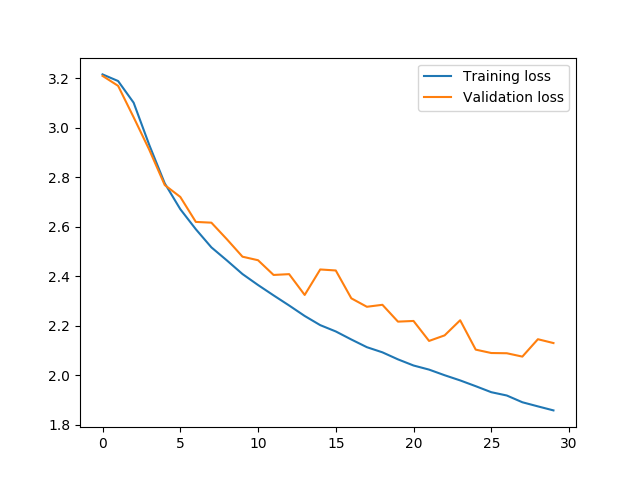
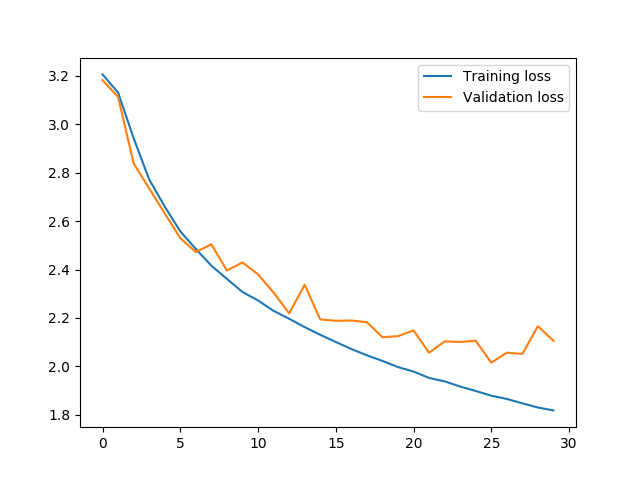
Acaba red mas profunda. Empieza red con batch normalization

diff --git a/P2/apartados1-2.py b/P2/apartados1-2.py
@@ -13,7 +13,7 @@ import keras.utils as np_utils
 
 from keras.models import Sequential
 from keras.layers import Dense, Dropout, Flatten
-from keras.layers import Conv2D, MaxPooling2D, Activation
+from keras.layers import Conv2D, MaxPooling2D, Activation, Dropout, BatchNormalization
 
 from keras.optimizers import Adam
 from keras.optimizers import SGD
@@ -163,7 +163,7 @@ print(model.summary())
 #########################################################################
 ###################### ENTRENAMIENTO DEL MODELO #########################
 #########################################################################
-
+"""
 # Entrenar el modelo
 print('Training base model')
 history = model.fit(
@@ -192,7 +192,7 @@ prediction = model.predict(
 # Obtener accuracy de test y mostrarla
 accuracy = calcularAccuracy(y_test, prediction)
 print('Test accuracy: {}'.format(accuracy))
-
+"""
 #########################################################################
 ########################## MEJORA DEL MODELO ############################
 #########################################################################
@@ -234,7 +234,7 @@ validation_iter = datagen_train.flow(
     batch_size=batch_size,
     subset='validation'
 )
-
+"""
 # Restaurar los pesos del modelo antes de continuar
 model.set_weights(weights)
 
@@ -250,7 +250,7 @@ history = model.fit_generator(
 
 # Mostrar graficas
 mostrarEvolucion(history)
-
+"""
 ###############################################################################
 # 2. Aumento de los datos
 
@@ -282,7 +282,7 @@ validation_iter_flip = datagen_train_flip.flow(
     batch_size=batch_size,
     subset='validation'
 )
-
+"""
 # Restaurar los pesos del modelo antes de continuar
 model.set_weights(weights)
 
@@ -426,8 +426,11 @@ history = model.fit_generator(
 # Mostrar graficas
 mostrarEvolucion(history)
 """
+###############################################################################
 # 3. Red más profunda
 
+epochs = 35
+"""
 # Definicion del nuevo modelo
 model_v2 = Sequential()
 model_v2.add(Conv2D(8, kernel_size=(5, 5), padding='valid', input_shape=input_shape))
@@ -461,7 +464,104 @@ weights_v2 = model_v2.get_weights()
 
 print(model_v2.summary())
 
+
 # Entrenar el modelo
+print('Training first "enhanced" model with no Dropout')
+history = model_v2.fit_generator(
+    train_iter,
+    steps_per_epoch=len(x_train)*0.9/batch_size,
+    epochs=epochs,
+    validation_data=validation_iter,
+    validation_steps=len(x_train)*0.1/batch_size
+)
+
+# Mostrar graficas
+mostrarEvolucion(history)
+
+# Definicion del nuevo modelo
+model_v3 = Sequential()
+model_v3.add(Conv2D(16, kernel_size=(3, 3), padding='valid', input_shape=input_shape))
+model_v3.add(Activation('relu'))
+model_v3.add(Conv2D(32, kernel_size=(3, 3), padding='valid'))
+model_v3.add(Activation('relu'))
+model_v3.add(MaxPooling2D(pool_size=(2, 2)))
+
+model_v3.add(Conv2D(64, kernel_size=(3, 3), padding='valid'))
+model_v3.add(Activation('relu'))
+model_v3.add(Conv2D(64, kernel_size=(3, 3), padding='valid'))
+model_v3.add(Activation('relu'))
+model_v3.add(MaxPooling2D(pool_size=(2, 2)))
+
+model_v3.add(Flatten())
+model_v3.add(Dense(units=128))
+model_v3.add(Activation('relu'))
+model_v3.add(Dense(units=50))
+model_v3.add(Activation('relu'))
+model_v3.add(Dense(units=25))
+model_v3.add(Activation('softmax'))
+
+# Compilar el modelo
+model_v3.compile(
+    loss=keras.losses.categorical_crossentropy,
+    optimizer=optimizer,
+    metrics=['accuracy']
+)
+
+weights_v3 = model_v3.get_weights()
+
+print(model_v3.summary())
+
+# Entrenar el modelo
+print('Training second "enhanced" model with no Dropout')
+history = model_v3.fit_generator(
+    train_iter,
+    steps_per_epoch=len(x_train)*0.9/batch_size,
+    epochs=epochs,
+    validation_data=validation_iter,
+    validation_steps=len(x_train)*0.1/batch_size
+)
+
+# Mostrar graficas
+mostrarEvolucion(history)
+"""
+# Definicion del nuevo modelo
+model_v2 = Sequential()
+model_v2.add(Conv2D(8, kernel_size=(5, 5), padding='valid', input_shape=input_shape))
+model_v2.add(Activation('relu'))
+model_v2.add(Conv2D(16, kernel_size=(5, 5), padding='valid'))
+model_v2.add(Activation('relu'))
+model_v2.add(MaxPooling2D(pool_size=(2, 2)))
+model_v2.add(Dropout(0.2))
+
+model_v2.add(Conv2D(32, kernel_size=(3, 3), padding='valid'))
+model_v2.add(Activation('relu'))
+model_v2.add(Conv2D(64, kernel_size=(3, 3), padding='valid'))
+model_v2.add(Activation('relu'))
+model_v2.add(MaxPooling2D(pool_size=(2, 2)))
+model_v2.add(Dropout(0.5))
+
+model_v2.add(Flatten())
+model_v2.add(Dense(units=128))
+model_v2.add(Activation('relu'))
+model_v2.add(Dense(units=50))
+model_v2.add(Activation('relu'))
+model_v2.add(Dense(units=25))
+model_v2.add(Activation('softmax'))
+
+# Compilar el modelo
+model_v2.compile(
+    loss=keras.losses.categorical_crossentropy,
+    optimizer=optimizer,
+    metrics=['accuracy']
+)
+
+weights_v2 = model_v2.get_weights()
+
+print(model_v2.summary())
+
+"""
+# Entrenar el modelo
+print('Training first "enhanced" model with Dropout')
 history = model_v2.fit_generator(
     train_iter,
     steps_per_epoch=len(x_train)*0.9/batch_size,
@@ -473,6 +573,179 @@ history = model_v2.fit_generator(
 # Mostrar graficas
 mostrarEvolucion(history)
 """
+# Definicion del nuevo modelo
+model_v3 = Sequential()
+model_v3.add(Conv2D(16, kernel_size=(3, 3), padding='valid', input_shape=input_shape))
+model_v3.add(Activation('relu'))
+model_v3.add(Conv2D(32, kernel_size=(3, 3), padding='valid'))
+model_v3.add(Activation('relu'))
+model_v3.add(MaxPooling2D(pool_size=(2, 2)))
+model_v3.add(Dropout(0.2))
+
+model_v3.add(Conv2D(64, kernel_size=(3, 3), padding='valid'))
+model_v3.add(Activation('relu'))
+model_v3.add(Conv2D(64, kernel_size=(3, 3), padding='valid'))
+model_v3.add(Activation('relu'))
+model_v3.add(MaxPooling2D(pool_size=(2, 2)))
+model_v3.add(Dropout(0.5))
+
+model_v3.add(Flatten())
+model_v3.add(Dense(units=128))
+model_v3.add(Activation('relu'))
+model_v3.add(Dense(units=50))
+model_v3.add(Activation('relu'))
+model_v3.add(Dense(units=25))
+model_v3.add(Activation('softmax'))
+
+# Compilar el modelo
+model_v3.compile(
+    loss=keras.losses.categorical_crossentropy,
+    optimizer=optimizer,
+    metrics=['accuracy']
+)
+
+weights_v3 = model_v3.get_weights()
+
+print(model_v3.summary())
+"""
+# Entrenar el modelo
+print('Training second "enhanced" model with Dropout')
+history = model_v3.fit_generator(
+    train_iter,
+    steps_per_epoch=len(x_train)*0.9/batch_size,
+    epochs=epochs,
+    validation_data=validation_iter,
+    validation_steps=len(x_train)*0.1/batch_size
+)
+
+# Mostrar graficas
+mostrarEvolucion(history)
+"""
+# Establecer epocas
+epochs = 50
+"""
+# Restaurar pesos
+model_v2.set_weights(weights_v2)
+
+# Entrenar el modelo
+print('Training first "enhanced" model with Dropout')
+history = model_v2.fit_generator(
+    train_iter,
+    steps_per_epoch=len(x_train)*0.9/batch_size,
+    epochs=epochs,
+    validation_data=validation_iter,
+    validation_steps=len(x_train)*0.1/batch_size
+)
+
+# Mostrar graficas
+mostrarEvolucion(history)
+
+# Restaurar pesos
+model_v3.set_weights(weights_v3)
+
+# Entrenar el modelo
+print('Training first "enhanced" model with Dropout')
+history = model_v3.fit_generator(
+    train_iter,
+    steps_per_epoch=len(x_train)*0.9/batch_size,
+    epochs=epochs,
+    validation_data=validation_iter,
+    validation_steps=len(x_train)*0.1/batch_size
+)
+
+# Mostrar graficas
+mostrarEvolucion(history)
+
+
+# Restaurar pesos
+model_v2.set_weights(weights_v2)
+
+# Entrenar el modelo
+print('Training first "enhanced" model with Dropout')
+history = model_v2.fit_generator(
+    train_iter_flip,
+    steps_per_epoch=len(x_train)*0.9/batch_size,
+    epochs=epochs,
+    validation_data=validation_iter_flip,
+    validation_steps=len(x_train)*0.1/batch_size
+)
+
+# Mostrar graficas
+mostrarEvolucion(history)
+
+# Restaurar pesos
+model_v3.set_weights(weights_v3)
+
+# Entrenar el modelo
+print('Training first "enhanced" model with Dropout')
+history = model_v3.fit_generator(
+    train_iter_flip,
+    steps_per_epoch=len(x_train)*0.9/batch_size,
+    epochs=epochs,
+    validation_data=validation_iter_flip,
+    validation_steps=len(x_train)*0.1/batch_size
+)
+
+# Mostrar graficas
+mostrarEvolucion(history)
+"""
+###############################################################################
+# 4. Capas de normalizacion
+
+epochs = 50
+
+# Definicion del nuevo modelo
+model_batch = Sequential()
+model_batch.add(Conv2D(16, kernel_size=(3, 3), padding='valid', input_shape=input_shape))
+model_batch.add(BatchNormalization())
+model_batch.add(Activation('relu'))
+model_batch.add(Conv2D(32, kernel_size=(3, 3), padding='valid'))
+model_batch.add(BatchNormalization())
+model_batch.add(Activation('relu'))
+model_batch.add(MaxPooling2D(pool_size=(2, 2)))
+model_batch.add(Dropout(0.2))
+
+model_batch.add(Conv2D(64, kernel_size=(3, 3), padding='valid'))
+model_batch.add(BatchNormalization())
+model_batch.add(Activation('relu'))
+model_batch.add(Conv2D(64, kernel_size=(3, 3), padding='valid'))
+model_batch.add(BatchNormalization())
+model_batch.add(Activation('relu'))
+model_batch.add(MaxPooling2D(pool_size=(2, 2)))
+model_batch.add(Dropout(0.5))
+
+model_batch.add(Flatten())
+model_batch.add(Dense(units=128))
+model_batch.add(Activation('relu'))
+model_batch.add(Dense(units=50))
+model_batch.add(Activation('relu'))
+model_batch.add(Dense(units=25))
+model_batch.add(Activation('softmax'))
+
+# Compilar el modelo
+model_batch.compile(
+    loss=keras.losses.categorical_crossentropy,
+    optimizer=optimizer,
+    metrics=['accuracy']
+)
+
+weights_batch = model_batch.get_weights()
+
+print(model_batch.summary())
+
+# Entrenar el modelo
+print('Training first batch normalization model')
+history = model_v3.fit_generator(
+    train_iter,
+    steps_per_epoch=len(x_train)*0.9/batch_size,
+    epochs=epochs,
+    validation_data=validation_iter,
+    validation_steps=len(x_train)*0.1/batch_size
+)
+
+# Mostrar graficas
+mostrarEvolucion(history)
+
 """
 # Predecir los datos
 prediction = model_v2.predict_generator(
@@ -485,4 +758,33 @@ prediction = model_v2.predict_generator(
 # Obtener accuracy de test y mostrarla
 accuracy = calcularAccuracy(y_test, prediction)
 print('Test accuracy: {}'.format(accuracy))
+"""
+
+
+"""
+Idea para el bonus
+model_v3 = Sequential()
+model_v3.add(Conv2D(16, kernel_size=(3, 3), padding='valid', input_shape=input_shape))
+model_v3.add(Activation('relu'))
+model_v3.add(Conv2D(64, kernel_size=(3, 3), padding='valid'))
+model_v3.add(Activation('relu'))
+model_v3.add(Conv2D(32, kernel_size=(1, 1), padding='valid'))
+model_v3.add(Activation('relu'))
+model_v3.add(MaxPooling2D(pool_size=(2, 2)))
+
+model_v3.add(Conv2D(32, kernel_size=(3, 3), padding='valid'))
+model_v3.add(Activation('relu'))
+model_v3.add(Conv2D(64, kernel_size=(3, 3), padding='valid'))
+model_v3.add(Activation('relu'))
+model_v3.add(Conv2D(32, kernel_size=(1, 1), padding='valid'))
+model_v3.add(Activation('relu'))
+model_v3.add(MaxPooling2D(pool_size=(2, 2)))
+
+model_v3.add(Flatten())
+model_v3.add(Dense(units=128))
+model_v3.add(Activation('relu'))
+model_v3.add(Dense(units=50))
+model_v3.add(Activation('relu'))
+model_v3.add(Dense(units=25))
+model_v3.add(Activation('softmax'))
 """
